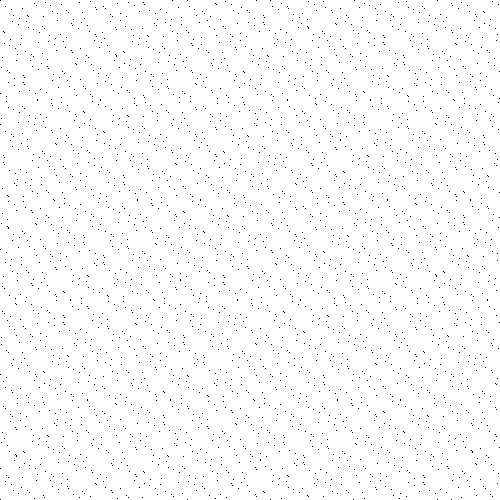
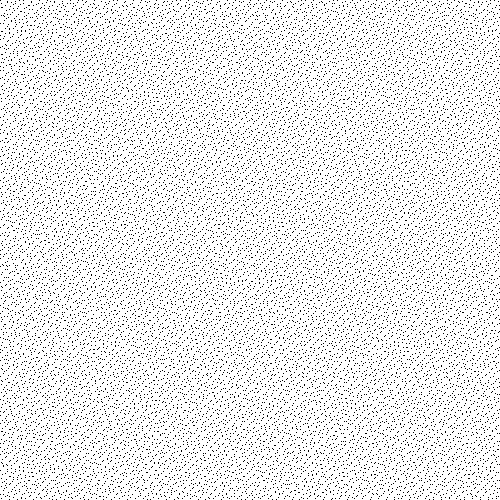
Dropped the identity_distribution idea

diff --git a/sandbox/SOC/2010/quasi_random/libs/random/test/discrepancy.cpp b/sandbox/SOC/2010/quasi_random/libs/random/test/discrepancy.cpp
@@ -11,10 +11,6 @@
 
 #include <boost/random/mersenne_twister.hpp>
 
-#include <boost/random/detail/identity_distribution.hpp>
-
-#include <boost/utility/result_of.hpp>
-
 #define BOOST_TEST_MAIN
 #include <boost/test/unit_test.hpp>
 #include <boost/test/unit_test_log.hpp>
@@ -72,18 +68,16 @@ BOOST_AUTO_TEST_CASE( test_halton_discrepancy )
 }
 
 
-template<typename QEngine, typename Distribution, typename Bounds>
+template<typename QEngine, typename Bounds, typename T>
 inline void check_discrepancy(const char* name,
-    Distribution d,
-    std::size_t n_vectors,
-    typename boost::result_of<Distribution(QEngine)>::type epsilon,
+    std::size_t n_vectors, T epsilon,
     Bounds mersenne_twister_discrepancy)
 {
   QEngine q; // default-construct
 
   BOOST_TEST_MESSAGE( "Testing " << name << "[" << q.dimension() << "]" );
 
-  Bounds qrng_discrepancy = d_star(q, d, n_vectors, epsilon);
+  Bounds qrng_discrepancy = d_star(q, n_vectors, epsilon);
   BOOST_CHECK_LT( qrng_discrepancy.first, mersenne_twister_discrepancy.first );
   BOOST_CHECK_LE( qrng_discrepancy.second, mersenne_twister_discrepancy.second );
 }
@@ -105,25 +99,24 @@ inline void compare_qrng_discrepancy(std::size_t n_vectors, double eps)
   BOOST_REQUIRE( eps > 0 && eps < 1 );
   BOOST_TEST_MESSAGE( "Starting tests in dimension " << D << " with sample size " << n_vectors << ", epsilon=" << eps );
 
-  boost::uniform_real<value_t> u;
-
   // Compute the discrepancy of the Mersenne twister pseudo-random number generator
   bounds_t mt_discrepancy;
   {
     boost::mt19937 mt;
+    boost::uniform_real<value_t> u;
 
     BOOST_TEST_MESSAGE( "Computing discrepancy bounds for mt19937[" << D << "]" );
     mt_discrepancy = d_star(mt, u, D, n_vectors, eps);
   }
 
-#define UNIT_TEST_CHECK_QRNG_DISCREPANCY(N, U) \
-  check_discrepancy<N>(#N, U, n_vectors, eps, mt_discrepancy); \
+#define UNIT_TEST_CHECK_QRNG_DISCREPANCY(N) \
+  check_discrepancy<N>(#N, n_vectors, eps, mt_discrepancy); \
 /**/
 
   // Compare the discrepancy of quasi-random number generators against the Mersenne twister discrepancy
-  UNIT_TEST_CHECK_QRNG_DISCREPANCY(niederreiter_base2_t, u);
-  UNIT_TEST_CHECK_QRNG_DISCREPANCY(sobol_t, u);
-  UNIT_TEST_CHECK_QRNG_DISCREPANCY(faure_t, boost::random::detail::identity_distribution());
+  UNIT_TEST_CHECK_QRNG_DISCREPANCY(niederreiter_base2_t);
+  UNIT_TEST_CHECK_QRNG_DISCREPANCY(sobol_t);
+  UNIT_TEST_CHECK_QRNG_DISCREPANCY(faure_t);
 
 #undef UNIT_TEST_CHECK_QRNG_DISCREPANCY
 }
@@ -151,9 +144,9 @@ BOOST_AUTO_TEST_CASE( test_qrng_discrepancy )
   compare_qrng_discrepancy<5>(  100,    0.06  );
   compare_qrng_discrepancy<6>(   60,    0.08  );
   compare_qrng_discrepancy<7>(   60,    0.15  );
-  compare_qrng_discrepancy<8>(  100,    0.4   );
+  compare_qrng_discrepancy<8>(  3000,    0.3   );
   compare_qrng_discrepancy<9> (  60,    0.5   );
-  compare_qrng_discrepancy<10>(  80,    0.3   ); // mersenne twister has good discrepancy from dim 10. :-)
+  compare_qrng_discrepancy<10>(  80,    0.3   );
   compare_qrng_discrepancy<11>(  500,   0.4   );
   compare_qrng_discrepancy<12>(  500,   0.5   );
 

diff --git a/sandbox/SOC/2010/quasi_random/libs/random/example/qrng_images.cpp b/sandbox/SOC/2010/quasi_random/libs/random/example/qrng_images.cpp
@@ -3,9 +3,8 @@
 // Boost Software License, Version 1.0. (See accompanying
 // file LICENSE-1.0 or http://www.boost.org/LICENSE-1.0)
 
-
-#include <boost/random/sobol.hpp>
 #include <boost/random/niederreiter_base2.hpp>
+#include <boost/random/sobol.hpp>
 #include <boost/random/faure.hpp>
 
 #include <boost/random/uniform_real.hpp>
@@ -17,7 +16,7 @@
 using namespace boost::gil;
 
 // Models a Unary Function
-template <typename Qrng, typename Distribution, typename P>   // Models PixelValueConcept
+template <typename QEngine, typename P>   // Models PixelValueConcept
 struct pixelnoise_fn {
   typedef point2<ptrdiff_t>    point_t;
 
@@ -33,7 +32,7 @@ struct pixelnoise_fn {
   point_t                       _img_size;
   std::vector<point_t>          _random_points;
 
-  static const int MAX_ITER=6000;        // max number of iterations
+  static const int MAX_ITER=20000;        // max number of iterations
 
   pixelnoise_fn() {}
   pixelnoise_fn(const point_t& sz, const value_type& in_color) : _pnt_color(in_color), _img_size(sz) { gen_random(); }
@@ -47,28 +46,17 @@ struct pixelnoise_fn {
 private:
   void gen_random()
   {
-    Qrng gen;
-    Distribution d;
+    QEngine gen;
+    boost::uniform_real<> d;
     for( int i = 0; i < MAX_ITER; ++i )
       _random_points.push_back( point_t( _img_size.x * d(gen), _img_size.y * d(gen) ) );
   }
 };
 
-// To be used in place of uniform_real, where scaling is not necessary
-template<typename T = double>
-struct identity_distribution
-{
-  typedef T result_type;
-  template<typename QRNG>
-  result_type operator()(QRNG& q) const
-  { return q(); }
-};
-
-
-template<typename Qrng, typename Distribution>
+template<typename QEngine>
 void output_image(const char* img_name)
 {
-  typedef pixelnoise_fn<Qrng, Distribution, rgb8_pixel_t> deref_t;
+  typedef pixelnoise_fn<QEngine, rgb8_pixel_t> deref_t;
   typedef typename deref_t::point_t  point_t;
   typedef virtual_2d_locator<deref_t,false> locator_t;
   typedef image_view<locator_t> my_virt_view_t;
@@ -83,8 +71,8 @@ void output_image(const char* img_name)
 
 int main()
 {
-  output_image<boost::sobol_4d, boost::uniform_real<> >("out-sobol.png");
-  output_image<boost::niederreiter_base2_4d, boost::uniform_real<> >("out-niederreiter_base2.png");
-  output_image<boost::faure_4d, identity_distribution<> >("out-faure.png");
+  output_image<boost::sobol_2d>("out-sobol.png");
+  output_image<boost::niederreiter_base2_2d>("out-niederreiter_base2.png");
+  output_image<boost::faure_2d>("out-faure.png");
   return 0;
 }

diff --git a/sandbox/SOC/2010/quasi_random/libs/random/test/d_star.hpp b/sandbox/SOC/2010/quasi_random/libs/random/test/d_star.hpp
@@ -14,7 +14,6 @@
 #include <boost/pool/pool.hpp>
 #include <boost/shared_array.hpp>
 #include <boost/random/uniform_real.hpp>
-#include <boost/utility/result_of.hpp>
 
 // The time required to compute the star discrepancy of a sequence of points
 // in a multidimensional unit cube is prohibitive and the best known upper
@@ -123,7 +122,7 @@ private:
 };
 
 
-// An s-dimensional table of values that are stored consecutively in the
+// An table of values that are stored consecutively in the
 // memory area pointed by the given pointer.
 // The table is strictly read-only.
 template<typename T>
@@ -657,12 +656,12 @@ d_star(T (&pt)[N][Dimension], T epsilon)
 // Accepts a pseudo-random number generator
 template<typename Engine, typename Distribution>
 inline typename detail::star_discrepancy<
-  typename boost::result_of<Distribution(Engine)>::type
+  typename Distribution::result_type
 >::bounds_t
 d_star(Engine& eng, Distribution d, std::size_t dimension, std::size_t n,
-    typename boost::result_of<Distribution(Engine)>::type epsilon)
+    typename Distribution::result_type epsilon)
 {
-  typedef typename boost::result_of<Distribution(Engine)>::type value_t;
+  typedef typename Distribution::result_type value_t;
   detail::star_discrepancy<value_t> discr(eng, d, dimension, n, epsilon);
   return discr.compute();
 }
@@ -670,10 +669,10 @@ d_star(Engine& eng, Distribution d, std::size_t dimension, std::size_t n,
 // Accepts a quasi-random number generator and distribution
 template<typename QEngine, typename Distribution>
 inline typename detail::star_discrepancy<
-  typename boost::result_of<Distribution(QEngine)>::type
+  typename Distribution::result_type
 >::bounds_t
 d_star(QEngine& q, Distribution d, std::size_t n,
-    typename boost::result_of<Distribution(QEngine)>::type epsilon)
+    typename Distribution::result_type epsilon)
 {
   return d_star(q, d, q.dimension(), n, epsilon);
 }

diff --git a/sandbox/SOC/2010/quasi_random/libs/random/test/gsl_validate.cpp b/sandbox/SOC/2010/quasi_random/libs/random/test/gsl_validate.cpp
@@ -3,8 +3,6 @@
 // Boost Software License, Version 1.0. (See accompanying
 // file LICENSE-1.0 or http://www.boost.org/LICENSE-1.0)
 
-#include "identity_distribution.hpp"
-
 #include <boost/random/niederreiter_base2.hpp>
 #include <boost/random/sobol.hpp>
 #include <boost/random/faure.hpp>
